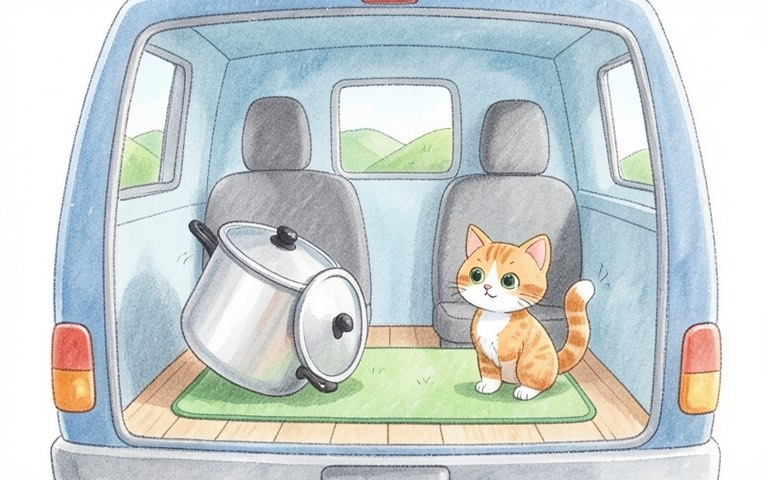
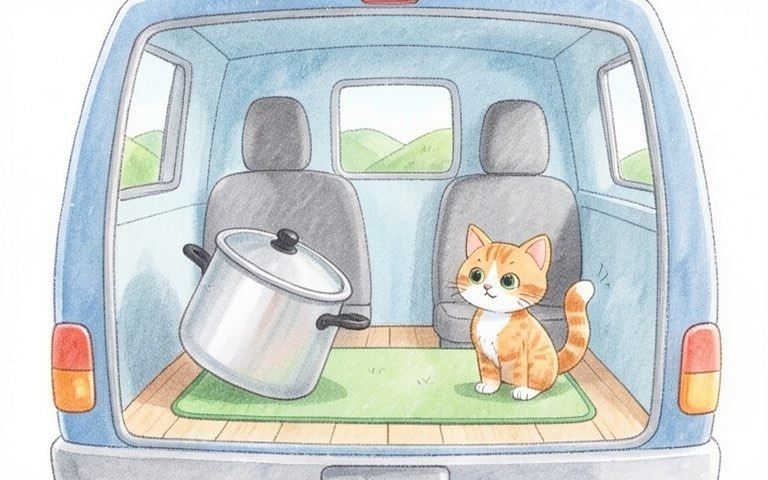
Dan and the Van: fix pages 5, 7, 10, 11, 13, 15

diff --git a/server/scripts/pregen-img.js b/server/scripts/pregen-img.js
@@ -610,7 +610,7 @@ const SCENES = {
   '56-0': ['9-year-old', 'the girl stands on the school field in front of colorful flags, full of joy, with her arms up'], '56-1': ['classmates', 'many children in blue shirts and red shirts run and play on the big school field, no adults'], '56-2': ['9-year-old', 'the girl holds up a blue shirt in her bedroom and smiles, no mirror, only one child'], '56-3': ['9-year-old|classmates', 'a group of children in blue shirts stand together with the girl and raise one blue flag with nothing written on it, everyone wears a blue shirt, nobody in red'], '56-4': ['9-year-old|Yuna', 'the girl and Yuna stand side by side in blue shirts with their arms around each other\'s shoulders'], '56-5': ['mom|dad', 'her mom and dad sit side by side on a bench at the edge of the field and wave, nobody else'], '56-6': ['9-year-old|classmates', 'a line of children in blue and red shirts stands ready at a white starting line on the field'], '56-7': ['9-year-old', 'the girl in the blue shirt runs as fast as she can, with motion lines, looking ahead'], '56-8': ['9-year-old', 'the girl looks up at one gold medal in a dream bubble above her head, smiling, with no writing on it'], '56-9': ['classmates', 'many children in blue shirts on the left and children in red shirts on the right pull one long thick rope in a tug of war'], '56-10': ['9-year-old|Yuna', 'the girl and Yuna in blue shirts stand one behind the other on the same side of a thick long rope and pull it together in the same direction, leaning back, eyes shut, the other team is outside the picture'], '56-11': ['', 'three different children in red T-shirts, one girl with braids, one tall boy and one short boy with glasses, pull a long thick rope together with strong faces on a sunny school field with colorful flags, only three children'], '56-12': ['9-year-old|Yuna', 'the girl and Yuna in blue shirts both face the left side of the picture, one behind the other, pulling the rope toward the left with determined faces, the rope goes out of the picture on the left'], '56-13': ['9-year-old|mom|dad', 'the girl sits on a picnic mat at the edge of the field and eats lunch with her tall mom and her tall dad, exactly three people, no other children'], '56-14': ['9-year-old|mom', 'her tall mom kneels on a picnic mat and opens a lunch box of sandwiches and fruit, the girl in a blue shirt watches happily, only two people, only one grown-up'], '56-15': ['9-year-old|Yuna', 'the girl and Yuna throw small beanbags up toward one big round paper ball with red and white stripes on top of a tall pole'], '56-16': ['9-year-old', 'one big round paper ball with red and white stripes sits high on top of a tall pole, small beanbags fly up toward it, the girl throws a beanbag up with her arm raised, no one else in the picture'], '56-17': ['classmates', 'the big round paper ball with red and white stripes on the tall pole pops open in two halves and colorful candy rains down on happy children'], '56-18': ['classmates', 'a crowd of happy children in blue and red shirts jumps and cheers with their arms up'], '56-19': ['teacher', 'her teacher, a tall grown-up young man with a whistle in a gray jacket, stands next to a big score board with only colored dots and counts with one finger, no words, no numbers, only one person'], '56-20': ['', 'one shiny gold trophy on a table on the school field, one blue flag and one red flag beside it, with nothing written on them'], '56-21': ['9-year-old|Yuna', 'the girl and Yuna shrug their shoulders and laugh together on the field'], '56-22': ['9-year-old', 'the girl lies alone in her bed under the blanket at night with her eyes closed, an alarm clock on the bedside table, the blue shirt ready on a chair, only one child in the whole picture'], '56-23': ['9-year-old', 'the girl jumps high on the school field with both arms up, full of joy'],
   '33-7': ['', 'one hot dog on a small plate on a kitchen counter, drawn at its real size, nothing giant'], '34-4': ['frog|duck|long mossy log', "one small yellow duck runs on the grass toward the long mossy log, the green frog sits on top of the log, a tiny red ladybug on the log, only one duck, the same long log as the reference picture"], '34-5': ['frog|duck|long mossy log', "the yellow duck and the green frog sit side by side on top of the long mossy log, one tiny red ladybug at the far end, only one duck, one frog and one ladybug, the same long log as the reference picture"], '34-6': ['pig|frog|duck|long mossy log', "the long mossy log lies on the green grass of the bank beside the big blue pond, the log is long, about twice as long as the pig, seen from the side, the big fat pink pig runs on its four short legs toward the log, the frog and the duck sit on top of the log, one very tiny red ladybug on the log, only one pig, one frog and one duck"], '34-7': ['pig|frog|duck|long mossy log', "the long mossy log lies on the green grass of the bank beside the big blue pond, the log is long, about twice as long as the pig, seen from the side, the big fat pink pig stands on its four short legs beside the log and looks at it, the frog and the duck sit on top of the log, one very tiny red ladybug on the log, only one pig, one frog and one duck"], '34-14': ['pig|frog|duck|long mossy log', "the big fat pink pig sits in front on the floating long mossy log and grins a big happy grin, behind it the frog, the duck and the tiny ladybug, a big green leaf on a stick is the sail, the same long log as the reference picture, only one pig, one frog, one duck and one very tiny red ladybug in the whole picture"], '34-3': ['frog|long mossy log', "the small green frog sits on top of the long mossy log like a real frog with its long back legs folded at its sides, a tiny red ladybug at the end of the log, the same long log as the reference picture"], '34-0': ['ladybug|long mossy log', "one tiny red ladybug sits on top of the long mossy log, which lies on the grassy bank near the edge of the big calm blue pond, the same long log as the reference picture"], '34-2': ['frog|long mossy log', "one small green frog hops through the grass toward the long mossy log by the big pond, a tiny red ladybug sits on the log, the same long log as the reference picture"], '39-0': ["the leaf:", "a close look at one little bright red maple leaf hanging on a branch of the tall tree, all the other leaves around it are orange and yellow, it is the only red one. No people"], '39-14': ["6-year-old girl|the leaf:", "the girl stands by the puddle and looks down at the one red leaf floating in it, surprised. Only one child"],
   '57-0': ['', 'a child\'s colorful painting of a sun and a flower on a small easel, with paint pots and a brush'], '57-1': ['', 'one red school backpack standing on the classroom floor'], '57-2': ['', 'a box of bright crayons with a few crayons lying beside it on a desk'], '57-3': ['', 'one small wooden school desk with a little chair'], '57-4': ['', 'one pink rubber eraser beside a yellow pencil on a desk'], '57-5': ['', 'two smiling children, a girl with black pigtails in a yellow shirt and a boy with curly brown hair in a green shirt, hold hands, only two children'], '57-6': ['', 'one small glue stick on a school desk, smaller than a pencil case'], '57-7': ['', "one open homework notebook with a pencil on a school desk, the pages show only simple lines and little doodles, no letters"], '57-8': ['', 'a small bottle of blue ink with a dip pen beside it on a desk'], '57-9': ['', 'one small blue jacket hanging on a classroom hook'], '57-10': ['', 'one colorful computer keyboard on a classroom desk'], '57-11': ['', 'an open lunch box with rice, an egg roll and fruit on a school desk'], '57-12': ['', 'a big colorful world map on the classroom wall'], '57-13': ['pigtails', 'the girl with her red backpack walks happily to the school gate in the morning, only one child'], '57-14': ['pigtails|friend', 'the girl and her friend sit side by side at two desks and smile, only two children'], '57-15': ['5-year-old girl', 'the girl walks with one red backpack on her back, only one backpack'],
-  '58-0': ['overalls|boxy', "side view of the whole big blue van parked by the gray sidewalk with its front facing right. Dan stands on the sidewalk in front of the middle of the van, smiling proudly, one hand resting flat on the closed sliding side door and his other hand giving a thumbs-up. Every door of the van is closed: the front driver door, the sliding side door and the back door. The sliding side door is the same bright blue as the van. Only one person, no animals"], '58-1': ['boxy', "side view of the whole big blue van parked alone on the quiet street with its front facing right, the whole van is visible from bumper to bumper. It is big and tall, much taller than the small red mailbox and the low hedge next to it. Every door is closed. No people, no animals, no bicycles"], '58-2': ['overalls|boxy|inside back|cooking pot', "side view of the big blue van parked by the sidewalk with its front facing right. The sliding side door in the middle is slid open toward the back, and through the wide doorway we see the empty inside: a flat light wooden floor and light blue walls. Dan stands on the sidewalk at the doorway and lifts the big silver cooking pot with its lid on by its two black handles, setting it down on the van floor just inside the door. The front driver door and the back door are closed. Only one person, only one pot"], '58-3': ["overalls|inside back|cooking pot|floor mat", "seen from the open back of the van looking in toward the gray front seats: a flat light wooden floor and light blue walls. Dan kneels on the wooden floor inside the van and spreads the flat green mat out on the floor with both hands, the big silver pot with its lid on already stands on the floor beside the mat. The mat is inside the van. Only one person, only one pot, only one mat, no cat"], '58-4': ["tabby|inside back|cooking pot|floor mat", "seen from behind the big blue van parked on the street: the big back door at the rear is wide open, and the orange cat leaps from the street up into the back of the van, in mid-air with its front paws stretched toward the green mat lying flat on the light wooden floor inside, its tail up. The big silver pot with its lid on stands on the floor next to the mat. Through the van we see the gray front seats; the front doors of the van are closed. No people, only one cat, only one pot"], '58-5': ['tabby|inside back|cooking pot|floor mat', "seen from the open back of the van looking in toward the gray front seats: a flat light wooden floor, light blue walls and a small square window. The orange cat sits happily on the flat green mat on the floor, its tail curled around its white paws. The big silver pot with its lid on stands on the wooden floor inside the van right next to the mat. Everything is inside the van, nothing outside. No people, only one cat, only one pot"], '58-6': ["overalls|tabby|boxy", "side view of the big blue van parked by the sidewalk with its front facing right. Every door of the van is closed: the front driver door is closed, the sliding side door is closed and the back door is closed. Dan already sits inside in the driver seat, seen through the front side window, smiling with his hands on the steering wheel. The orange cat's face peeks out of the window of the closed sliding side door. Nobody outside on the sidewalk. Only one person, only one cat"], '58-7': ['overalls|tabby|boxy', "seen from a little far away, the big blue van drives fast to the right along the country road between green hills, with speed lines and a little dust behind it. Every door is closed. Dan sits at the steering wheel behind the front window, smiling, and the orange cat's face looks out of the window of the closed sliding side door. Only one person, only one cat. The cat is inside the van, only its face shows in the side window, no cat outside on the road"], '58-8': ['overalls|boxy', "side view of the big blue van on the country road with its front facing right: its front wheels bounce up over a small round bump in the road, the van tilts back a little, short bounce lines and a puff of dust. Every door is closed and the sliding side door is the same bright blue as the van. Dan at the steering wheel behind the front window looks surprised. Only one person"], '58-9': ['tabby|inside back|cooking pot|floor mat', "seen from the open back of the van looking in toward the gray front seats: a flat light wooden floor, light blue walls and a small window with green hills outside. The van just hit a bump: the big silver pot has slid onto the edge of the green mat and is tipping over sideways, its lid still on, about to fall. The orange cat sitting on the mat jumps up in surprise with puffed fur and wide eyes. Bounce lines. Only one cat, only one pot, only one lid"], '58-10': ['tabby|inside back|cooking pot|floor mat', "seen from the open back of the van looking in toward the gray front seats: a flat light wooden floor and light blue walls. The big silver pot is lying on its side on the green mat, not standing upright, its open top turned toward the cat. Its round silver lid has fallen off and lies on the wooden floor beside the mat, still wobbling, with little motion lines. Round golden-brown bread buns are just visible inside the pot opening, all still inside. The orange cat stands on the mat and stares at the pot. Only one cat, only one pot, only one lid"], '58-11': ["tabby|inside back|cooking pot|floor mat", "seen from the open back of the van looking in toward the gray front seats: a close look at the big silver pot lying on its side on the green mat, not standing upright, its round opening facing us, and inside the pot are exactly six round golden-brown bread buns, warm steam curling up. The orange cat's surprised face is next to the pot. Exactly one round silver lid lies flat on the wooden floor, only one lid in the whole picture. Only one cat, only one pot"], '58-12': ["tabby|inside back|cooking pot|floor mat", "seen from the open back of the van looking in toward the gray front seats: the big silver pot is lying on its side on the green mat, not standing upright, with no lid on it, and two round golden-brown bread buns have rolled out of its opening onto the mat, warm steam. The orange cat crouches low and sniffs one of the rolled-out buns with its pink nose almost touching it. Exactly one round silver lid lies flat on the wooden floor, only one lid in the whole picture. Only one cat, only one pot"], '58-13': ['overalls|boxy', "side view of the big blue van parked on the grassy roadside with its front facing right, green hills behind. The sliding side door and the back door are closed. Only the front driver door is open, and Dan steps down out of it, one boot already on the grass, one hand holding the open door. Only one person"], '58-14': ['overalls|tabby|boxy|cooking pot', "Dan and the orange cat sit side by side on the green grass in bright warm sunshine next to the big blue van parked by the road, a big bright sun in the blue sky. All the van doors are closed. Dan sits cross-legged with a happy relaxed face, the cat sits by his knee with its eyes half closed in the warm sun. The big silver pot with its lid on stands on the grass in front of them. Only one person, only one cat, only one pot"], '58-15': ["overalls|tabby|cooking pot", "a closer look at Dan and the orange cat sitting on the sunny green grass eating bread buns. Dan holds one round golden-brown bun as big as his palm and takes a bite, smiling. The cat sits on the grass to the right of Dan and nibbles a small round bun in front of it, happy. Beside them the big silver pot stands upright with its lid off, more buns inside. Yum. Exactly one cat with exactly one striped tail, nothing behind Dan. Only one person, only one cat, only one pot"],
+  '58-0': ['overalls|boxy', "side view of the whole big blue van parked by the gray sidewalk with its front facing right. Dan stands on the sidewalk in front of the middle of the van, smiling proudly, one hand resting flat on the closed sliding side door and his other hand giving a thumbs-up. Every door of the van is closed: the front driver door, the sliding side door and the back door. The sliding side door is the same bright blue as the van. Only one person, no animals"], '58-1': ['boxy', "side view of the whole big blue van parked alone on the quiet street with its front facing right, the whole van is visible from bumper to bumper. It is big and tall, much taller than the small red mailbox and the low hedge next to it. Every door is closed. No people, no animals, no bicycles"], '58-2': ['overalls|boxy|inside back|cooking pot', "side view of the big blue van parked by the sidewalk with its front facing right. The sliding side door in the middle is slid open toward the back, and through the wide doorway we see the empty inside: a flat light wooden floor and light blue walls. Dan stands on the sidewalk at the doorway and lifts the big silver cooking pot with its lid on by its two black handles, setting it down on the van floor just inside the door. The front driver door and the back door are closed. Only one person, only one pot"], '58-3': ["overalls|inside back|cooking pot|floor mat", "seen from the open back of the van looking in toward the gray front seats: a flat light wooden floor and light blue walls. Dan kneels on the wooden floor inside the van and spreads the flat green mat out on the floor with both hands, the big silver pot with its lid on already stands on the floor beside the mat. The mat is inside the van. Only one person, only one pot, only one mat, no cat"], '58-4': ["tabby|inside back|cooking pot|floor mat", "seen from behind the big blue van parked on the street: the big back door at the rear is wide open, and the orange cat leaps from the street up into the back of the van, in mid-air with its front paws stretched toward the green mat lying flat on the light wooden floor inside, its tail up. The big silver pot with its lid on stands on the floor next to the mat. Through the van we see the gray front seats; the front doors of the van are closed. No people, only one cat, only one pot"], '58-5': ['tabby|inside back|cooking pot|floor mat', "seen from the open back of the van looking in toward the gray front seats: a flat light wooden floor, light blue walls and a small square window. The orange cat sits happily on the flat green mat on the floor, its tail curled around its white paws. The big silver pot with its lid on stands on the wooden floor inside the van right next to the mat. Everything is inside the van, nothing outside. No people, only one cat, only one pot"], '58-6': ["overalls|tabby|boxy", "side view of the big blue van parked by the sidewalk with its front facing right. Every door of the van is closed: the front driver door is closed, the sliding side door is closed and the back door is closed. Dan already sits inside in the driver seat, seen through the front side window, smiling with his hands on the steering wheel. The orange cat's face peeks out of the window of the closed sliding side door. Nobody outside on the sidewalk. Only one person, only one cat"], '58-7': ['overalls|tabby|boxy', "seen from a little far away, the big blue van drives fast to the right along the country road between green hills, with speed lines and a little dust behind it. Every door is closed. Dan sits at the steering wheel behind the front window, smiling, and the orange cat's face looks out of the window of the closed sliding side door. Only one person, only one cat. The cat is inside the van, only its face shows in the side window, no cat outside on the road"], '58-8': ['overalls|boxy', "side view of the big blue van on the country road with its front facing right: its front wheels bounce up over a small round bump in the road, the van tilts back a little, short bounce lines and a puff of dust. Every door is closed and the sliding side door is the same bright blue as the van. Dan at the steering wheel behind the front window looks surprised. Only one person"], '58-9': ['tabby|inside back|cooking pot|floor mat', "seen from the open back of the van looking in toward the gray front seats: a flat light wooden floor, light blue walls and a small window with green hills outside. The van just hit a bump: the big silver pot has slid onto the edge of the green mat and is tipping over sideways, its lid still on, about to fall. The orange cat sitting on the mat jumps up in surprise with puffed fur and wide eyes. Bounce lines. Only one cat, only one pot, only one lid"], '58-10': ['tabby|inside back|cooking pot|floor mat', "seen from the open back of the van looking in toward the gray front seats: a flat light wooden floor and light blue walls. The big silver pot is lying on its side on the green mat, not standing upright, its open top turned toward the cat. Its round silver lid has fallen off and lies on the wooden floor beside the mat, still wobbling, with little motion lines. Round golden-brown bread buns are just visible inside the pot opening, all still inside. The orange cat stands on the mat and stares at the pot. Only one cat, only one pot, only one lid"], '58-11': ["tabby|inside back|cooking pot|floor mat", "a close look inside the back of the blue van: the big silver pot lies on its side on the green mat with its round open mouth facing straight toward us like a big silver circle, and the circle is filled with exactly six round golden-brown bread buns, warm steam curling up from them. The pot's two small black handles stick out on the left and right of its round rim. Nothing sits on top of the pot. The orange cat stands beside the pot looking at the buns in surprise. One round silver lid lies flat on the wooden floor. Only one cat, only one pot, only one lid"], '58-12': ["tabby|inside back|cooking pot|floor mat", "seen from the open back of the van looking in toward the gray front seats: the big silver pot is lying on its side on the green mat, not standing upright, with no lid on it, and two round golden-brown bread buns have rolled out of its opening onto the mat, warm steam. The orange cat crouches low and sniffs one of the rolled-out buns with its pink nose almost touching it. Exactly one round silver lid lies flat on the wooden floor, only one lid in the whole picture. Only one cat, only one pot"], '58-13': ['overalls|boxy', "side view of the big blue van parked on the grassy roadside with its front facing right, green hills behind. The sliding side door and the back door are closed. Only the front driver door is open, and Dan steps down out of it, one boot already on the grass, one hand holding the open door. Only one person"], '58-14': ['overalls|tabby|boxy|cooking pot', "Dan and the orange cat sit side by side on the green grass in bright warm sunshine next to the big blue van parked by the road, a big bright sun in the blue sky. All the van doors are closed. Dan sits cross-legged with a happy relaxed face, the cat sits by his knee with its eyes half closed in the warm sun. The big silver pot with its lid on stands on the grass in front of them. Only one person, only one cat, only one pot"], '58-15': ["overalls|tabby|cooking pot", "a closer look at Dan and the orange cat sitting on the sunny green grass eating bread buns. Dan holds one round golden-brown bun as big as his palm and takes a bite, smiling. The cat sits on the grass to the right of Dan and nibbles a small round bun in front of it, happy. Beside them the big silver pot stands upright with its lid off, more buns inside. Yum. Exactly one cat with exactly one striped tail, nothing behind Dan. Only one person, only one cat, only one pot"],
   '59-0': ["", "a quiet small town at night seen from a little far away: little houses with warm yellow windows, rooftops and chimneys, one small round moon above, nobody at the windows, nobody outside"], '59-1': ["", "the dark blue night sky full of little twinkling stars over the dark rooftops of the small town, one small round moon. No people"], '59-2': ["6-year-old boy with short black hair and round rosy cheeks, in", "in the cozy living room at night, the boy in his green T-shirt sits on the soft orange sofa and yawns a big yawn, rubbing one eye with his fist, a clock on the wall. Only one child"], '59-3': ["6-year-old boy with short black hair and round rosy cheeks, in|the bathroom:", "in the bathroom, the boy in his green T-shirt stands next to the white bathtub full of white bubbles, one hand on its edge, ready to get in. Only one child"], '59-4': ["the bathroom:", "in the bathroom, a 6-year-old boy with short black hair and round rosy cheeks sits in the white bathtub full of white bubbles, only his head and shoulders above the bubbles, smiling with his eyes half closed, warm steam curls up. His clothes are not in the picture. Exactly one boy in the whole picture, nobody standing"], '59-5': ["the bathroom:", "in the bathroom, a 6-year-old boy with short black hair and round rosy cheeks sits in the white bathtub full of bubbles and plays with one small red toy sailboat floating on the water in front of him, only his head, shoulders and hands above the bubbles. Exactly one boy in the whole picture, nobody standing"], '59-6': ["6-year-old boy with short black hair and round rosy cheeks, in|the bathroom:", "the boy steps out of the bathtub onto the fluffy round yellow bath mat, wrapped in a big soft blue towel from his shoulders to his knees, smiling and shiny clean. Only one child"], '59-7': ["6-year-old boy with short black hair and round rosy cheeks, in|the bathroom:", "the boy wrapped in the big soft blue towel rubs his wet hair with one corner of it and giggles, standing on the yellow bath mat. Only one child"], '59-8': ["the boy in pajamas:|the bedroom:", "in the bedroom, the boy pulls on the blue pajama top with little yellow stars over his head, one arm already in the sleeve, he already wears the blue pajama pants with stars. Only one child"], '59-9': ["the boy in pajamas:|the bedroom:", "in the bedroom, the boy in blue pajamas with little yellow stars stands proudly and points at the yellow stars on his top, smiling. No jeans. Only one child"], '59-10': ["the boy in pajamas:|the bathroom:", "in the bathroom, the boy in blue pajamas with little yellow stars stands on the small wooden step stool at the white sink and brushes his teeth with a green toothbrush. No mirror. Only one child"], '59-11': ["the boy in pajamas:|the bathroom:", "in the same bathroom with light blue tiles, a closer look: the boy in blue pajamas with little yellow stars stands on the small wooden step stool at the white sink and brushes his teeth up and down with a green toothbrush, white foam at his mouth, small up and down arrows beside the brush. No mirror. Only one child"], '59-12': ["the boy in pajamas:|his mom|the bedroom:", "in the bedroom, the boy in blue pajamas lies in his small wooden bed under the light green blanket, his tall mom sits on the edge of the bed and reads a picture book with a brown owl on its cover to him, the warm lamp is on. Only two people"], '59-13': ["", "a close look at an open picture book lying on a light green blanket, its page shows a painting of one little brown owl with big round yellow eyes sitting on a branch under a round moon. No people"], '59-14': ["the boy in pajamas:|toy rabbit:|the bedroom:", "the boy lies in his small wooden bed with the light green blanket pulled up to his shoulders and hugs the small white toy rabbit with floppy ears, smiling sleepily. Only one child"], '59-15': ["the boy in pajamas:|his mom|the bedroom:", "his tall mom stands at the bedroom door and touches the light switch on the wall, the boy lies in his bed under the light green blanket, the room gets dark. Only two people"], '59-16': ["the boy in pajamas:|his mom|the bedroom:", "the room is dark with a small soft night light; the boy in blue pajamas waves sleepily from his bed to his tall mom, who stands at the half-open door with light from the hall behind her and waves back. Only two people"], '59-17': ["the boy in pajamas:|the bedroom:", "in the dark bedroom, the boy sits up in bed under the light green blanket and waves at one small round moon shining through the window. Nobody outside, only one child"], '59-18': ["the boy in pajamas:|toy rabbit:|the bedroom:", "in the dark bedroom, the boy sleeps peacefully in his bed with his eyes closed, the light green blanket pulled up to his shoulders, hugging the small white toy rabbit. Only one child"], '59-19': ["the boy in pajamas:|toy rabbit:|the bedroom:", "in the dark bedroom, the boy sleeps smiling in his bed hugging the small white toy rabbit, a soft dream bubble above him shows a smiling moon and stars. Only one child"],
   '60-0': ['7-year-old girl|her dad|the kitchen:', "the girl walks into the kitchen and looks curiously at her dad, who rolls round pizza dough with a rolling pin on the wooden table. Only two people"], '60-1': ['7-year-old girl|her dad|the kitchen:', "the dad smiles and shows the round flat white pizza dough on the round wooden board on the table, inviting the girl to help. Only two people"], '60-2': ['7-year-old girl|the kitchen:', "the girl raises her hand high with excitement in the kitchen, jumping a little. Only one person"], '60-3': ['7-year-old girl|her dad|the kitchen:', "the dad points to the white sink and the girl walks to it, ready to wash her hands. Only two people"], '60-4': ['7-year-old girl|the kitchen:', "by the white sink, the girl shows her two clean wet hands with little water drops, smiling. Only one person"], '60-5': ['her dad|the kitchen:', "the dad stands at the wooden table and holds up a bowl of grated yellow cheese with a smile, asking. Only one person"], '60-6': ['7-year-old girl|the kitchen:', "the girl holds the bowl of grated yellow cheese and smiles with her eyes closed, a little heart above her. Only one person"], '60-7': ['7-year-old girl|the kitchen:', "the girl spreads red tomato sauce on the round pizza dough on the wooden board with a big spoon, carefully. Only one person"], '60-8': ['7-year-old girl|the kitchen:', "the girl looks up with a question, the round pizza dough on the wooden board is covered with red sauce, a little sauce on her cheek. Only one person"], '60-9': ['her dad|the kitchen:', "the dad gives a big thumbs-up, smiling, next to the pizza with red sauce. Only one person"], '60-10': ['her dad|the kitchen:', "the dad holds a tray with three small bowls: sliced brown mushrooms, yellow corn and grated cheese, asking. Only one person"], '60-11': ['7-year-old girl|the kitchen:', "the girl points at the bowl of sliced mushrooms and the bowl of yellow corn on the table. Only one person"], '60-12': ['7-year-old girl|her dad|the kitchen:', "the dad holds up one mushroom slice and asks how many, the girl thinks with a finger on her chin. Only two people"], '60-13': ['7-year-old girl|the kitchen:', "the girl puts mushroom slices on the round pizza covered with red sauce, cheese and corn, exactly five mushroom slices on the pizza. Only one person"], '60-14': ['her dad|the kitchen:', "the dad wears thick red oven mitts and slides the round pizza into the white oven. Only one person"], '60-15': ['7-year-old girl|the kitchen:', "the girl sits on the floor a step back from the white oven with her hands on her knees and looks through the oven window at the pizza inside, glowing orange. Only one child"], '60-16': ['her dad|the kitchen:', "the dad points up at the round wall clock with no numbers above the oven and smiles. Only one person"], '60-17': ['7-year-old girl|the kitchen:', "the girl smells the air with closed eyes and a big smile, the hot round pizza with melted cheese and steam sits on the wooden table. Only one person"], '60-18': ['7-year-old girl|her dad|the kitchen:', "the dad gives the girl one triangle slice of hot pizza on a small white plate, cheese stretching. Only two people"], '60-19': ['7-year-old girl|her dad|the kitchen:', "the girl and her dad sit at the wooden table and eat pizza slices together, both happy. Only two people"],
   '61-0': ["little cloud:", "the little white cloud with a cute face floats alone in the bright blue sky, smiling. Only one cloud"], '61-1': ["little cloud:", "a close look at the little white cloud, soft and fluffy like cotton, it hugs itself happily. Only one cloud"], '61-2': ["little cloud:", "the tiny little cloud floats in a huge wide empty blue sky, very small in the picture. Only one cloud"], '61-3': ["little cloud:|the farm:", "the little cloud looks down from high in the sky at the dry brown farm far below. Only one cloud"], '61-4': ["the farm:", "close to the ground: dry hard brown soil with big cracks on the farm field, the small plants are brown. No people"], '61-5': ["the farm:", "the long row of flowers along the fence droops and hangs down in the dry cracked soil, the flowers look sad and thirsty. No people"], '61-6': ["farmer|the farm:", "the farmer stands in his dry brown field, holds his straw hat and looks up at the empty sky with a worried face, empty hands. Only one person"], '61-7': ["little cloud:|the farm:", "the little white cloud looks down at the dry farm with a brave determined face, wanting to help. Only one cloud"], '61-8': ["little cloud:|the farm:", "the little white cloud floats high over the big dry field, it is so small that its tiny shadow covers only a little spot of the field. Only one cloud"], '61-9': ["little cloud:", "a cool wind blows across the sky, swirling wind lines push the little cloud along, it smiles. Only one little cloud"], '61-10': ["little cloud:", "many more fluffy white clouds float toward the little cloud from all sides, joining together. The little cloud in the middle"], '61-11': ["the farm:", "one big gray fluffy rain cloud with a cute smiling face fills the sky over the farm, it is the only cloud in the sky"], '61-12': ["the farm:", "one big gray fluffy rain cloud with a cute face looks heavy, round and full of water over the farm, its cheeks puffed, it is the only cloud in the sky"], '61-13': ["the farm:", "raindrops fall from the one big gray fluffy rain cloud with a cute face onto the farm below, it is the only cloud in the sky"], '61-14': ["the farm:", "gentle cool raindrops fall softly on the small green plants in the farm field. No people"], '61-15': ["the farm:", "close to the ground: rain soaks into the cracked brown soil, small puddles form, the cracks fill with water. No people"], '61-16': ["the farm:", "the long row of flowers along the fence stands up tall and bright, red, yellow and pink, fresh with raindrops. No people"], '61-17': ["farmer|the farm:", "the farmer laughs and dances in the gentle rain in his field with his arms up and his straw hat in one hand. Only one person"], '61-18': ["the farm:", "the warm sun comes out over the green fresh farm, sunbeams shine, drops sparkle on the plants. No people"], '61-19': ["little cloud:|the farm:", "one bright rainbow arcs over the green farm, the little white cloud floats next to it, smiling. Only one little cloud"], '61-20': ["little cloud:", "the little white cloud is small, white and light again, floating happily and spinning in the blue sky. Only one cloud"], '61-21': ["farmer|little cloud:|the farm:", "the farmer stands in his green field full of flowers and waves up at the little white cloud in the sky, it smiles back. Only one person, only one cloud"],
